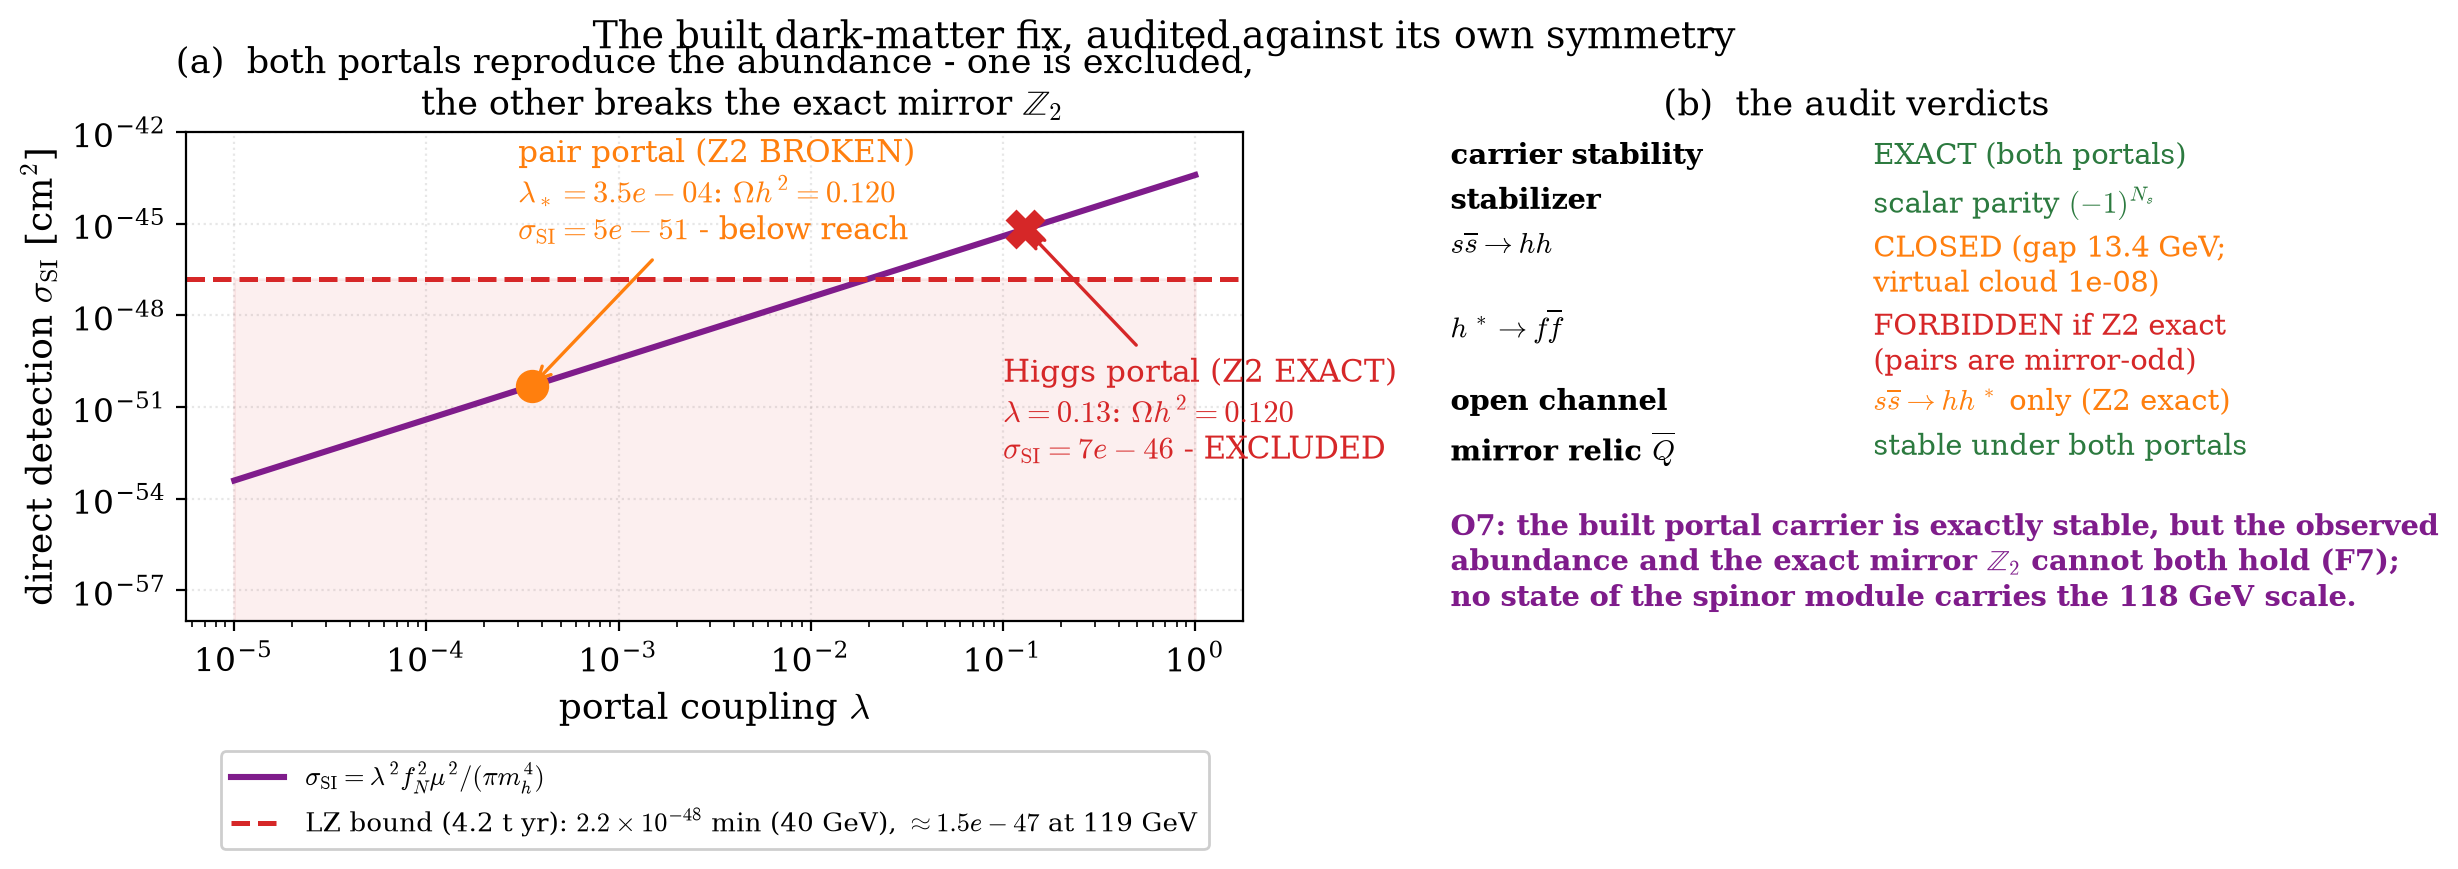
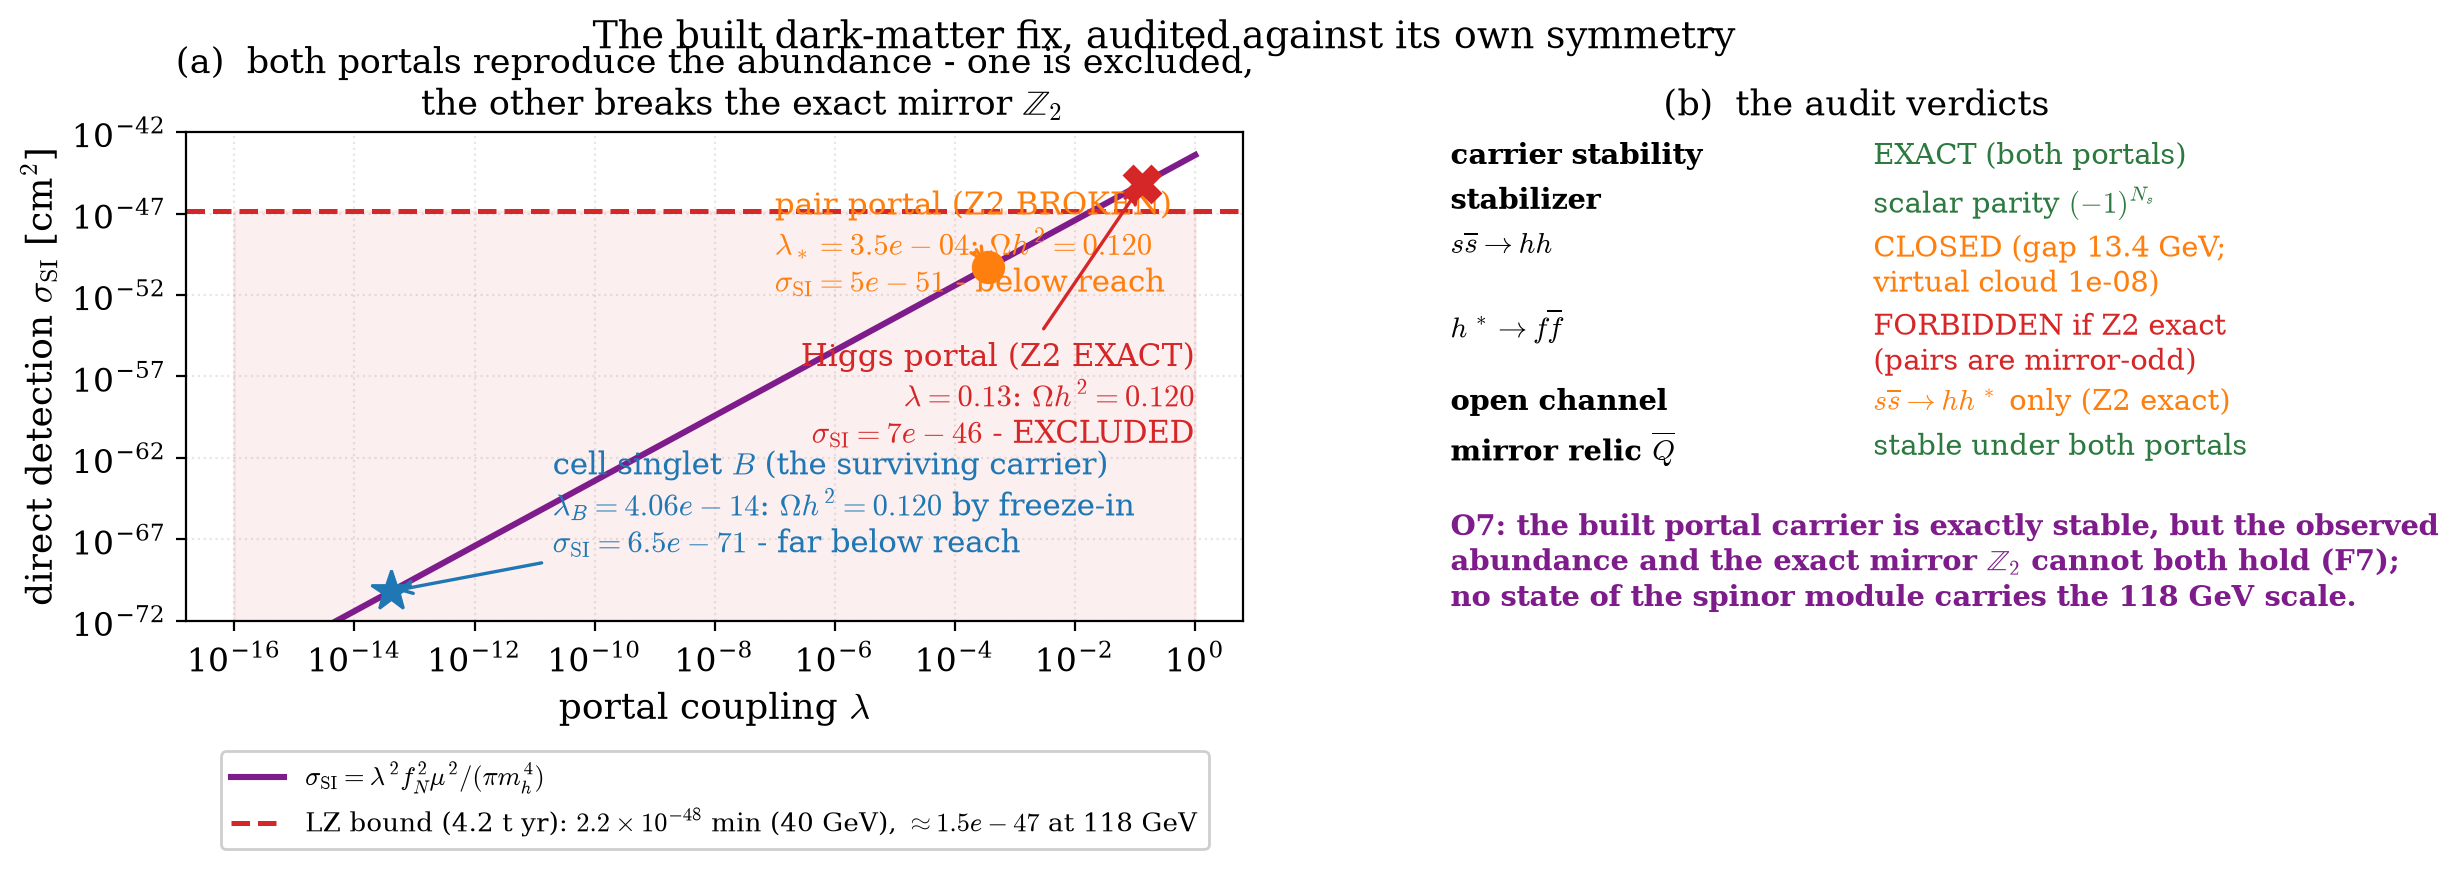
figure-render hygiene to match the consolidated paper: no experiment IDs or workflow vocabulary drawn into the figures - fig10 panel (a) title 'exactness ledger' -> 'exactness accounting' (the paper's word), three rendered '(V209)' tags dropped (fig13a, fig14a legend, fig14b note), fig22 suptitle 'k

diff --git a/make_figures/residuals.py b/make_figures/residuals.py
@@ -38,7 +38,7 @@ def fig10_gauged_layer():
     axA.set_yticks(ypos)
     axA.set_yticklabels([r[0] for r in rows], fontsize=10.5)
     axA.set_xlabel(r"absolute error (exact zeros floored at $2\times10^{-17}$)")
-    axA.set_title("(a)  the exactness ledger: every identity of the\n"
+    axA.set_title("(a)  the exactness accounting: every identity of the\n"
                   "     gauged bond layer closes at machine precision",
                   fontsize=12)
     axA.legend(fontsize=10, loc="upper right", framealpha=0.95)
@@ -72,6 +72,9 @@ def fig15_dm_portal():
     with open(exp("V88_mirror_scalar",
                            "results", "v88_mirror_scalar.json")) as f:
         d = json.load(f)["data"]
+    with open(exp("V195_cell_redefinition",
+                           "results", "v195_cell_redefinition.json")) as f:
+        prodB = json.load(f)["data"]["production"]
     lam2, sig2 = d["V2_lam_star"], d["V2_sigma_SI_cm2"]
     lam1, sig1 = d["V1_lam_for_Omega"], d["V1_sigma_SI_cm2"]
     lz = float(_config.CFG.bounds.sigma_si_lz_cm2)
@@ -81,7 +84,7 @@ def fig15_dm_portal():
     fig, (axA, axB) = plt.subplots(1, 2, figsize=(11.5, 4.7),
                                    gridspec_kw={"width_ratios": [1.25, 1.0]})
 
-    lam = np.logspace(-5, 0, 400)
+    lam = np.logspace(-16, 0, 600)
     f_N = float(_config.CFG.dm.f_n_nucleon)
     m_N = float(_config.CFG.physics.proton_mass_gev)
     M_H = float(_config.CFG.sm.higgs_mass_gev)
@@ -95,28 +98,40 @@ def fig15_dm_portal():
                      r"(\pi m_h^4)$")
     axA.axhline(lz, color=C_ZERO, ls="--", lw=1.8,
                 label=r"LZ bound (4.2 t yr): $2.2\times10^{-48}$ min "
-                      rf"(40 GeV), $\approx{lz:.1e}$ at {M_DM:.0f} GeV")
-    axA.fill_between([1e-5, 1], 1e-58, lz, color=C_ZERO, alpha=0.07)
+                      rf"(40 GeV), $\approx{lz:.1e}$ at {int(M_DM)} GeV")
+    axA.fill_between([1e-16, 1], 1e-72, lz, color=C_ZERO, alpha=0.07)
     axA.plot([lam2], [sig2], "o", ms=11, color=C_SU2, zorder=5)
     axA.annotate(f"pair portal (Z2 BROKEN)\n$\\lambda_* = {lam2:.1e}$: "
                  f"$\\Omega h^2 = {float(_config.CFG.physics.omega_dm_h2):.3f}$\n$\\sigma_{{\\rm SI}} = "
                  f"{sig2:.0e}$ - below reach",
-                 xy=(lam2, sig2), xytext=(3e-4, 8e-43), fontsize=11,
+                 xy=(lam2, sig2), xytext=(1e-7, 4e-46), fontsize=11,
                  color=C_SU2, va="top",
                  arrowprops=dict(arrowstyle="->", color=C_SU2, lw=1.2))
     axA.plot([lam1], [sig1], "X", ms=13, color=C_ZERO, zorder=5)
     axA.annotate(f"Higgs portal (Z2 EXACT)\n$\\lambda = {lam1:.2f}$: "
                  f"$\\Omega h^2 = {float(_config.CFG.physics.omega_dm_h2):.3f}$\n$\\sigma_{{\\rm SI}} = "
                  f"{sig1:.0e}$ - EXCLUDED",
-                 xy=(lam1, sig1), xytext=(0.1, 2e-53), fontsize=11,
+                 xy=(lam1, sig1), xytext=(0.98, 2e-55), fontsize=11,
+                 va="top", ha="right",
                  color=C_ZERO,
                  arrowprops=dict(arrowstyle="->", color=C_ZERO, lw=1.2))
+    lamB = float(prodB["lambda_fi"])
+    sigB = float(prodB["sigma_fi_cm2"])
+    axA.plot([lamB], [sigB], "*", ms=15, color=C_GUT, zorder=5)
+    axA.annotate(f"cell singlet $B$ (the surviving carrier)\n"
+                 f"$\\lambda_B = {lamB:.2e}$: "
+                 f"$\\Omega h^2 = {float(_config.CFG.physics.omega_dm_h2):.3f}$"
+                 " by freeze-in\n"
+                 f"$\\sigma_{{\\rm SI}} = {sigB:.1e}$ - far below reach",
+                 xy=(lamB, sigB), xytext=(2e-11, 4e-62), fontsize=11,
+                 color=C_GUT, va="top",
+                 arrowprops=dict(arrowstyle="->", color=C_GUT, lw=1.2))
     axA.set_xlabel(r"portal coupling $\lambda$")
     axA.set_ylabel(r"direct detection $\sigma_{\rm SI}$ [cm$^2$]")
     axA.set_title("(a)  both portals reproduce the abundance - one is "
                   "excluded,\n     the other breaks the exact mirror "
                   "$\\mathbb{Z}_2$", fontsize=12.5)
-    axA.set_ylim(1e-58, 1e-42)
+    axA.set_ylim(1e-72, 1e-42)
     axA.legend(loc="upper center", bbox_to_anchor=(0.5, -0.24),
                fontsize=9.5, framealpha=0.95)
 
@@ -174,7 +189,7 @@ def fig14_loop_selection():
                  label=r"$n = 4k$: measured (removable at the root clock)")
     axA.semilogy(fourk2, [Fn[n] for n in fourk2], "o", mfc="none", mew=1.4,
                  color="0.55", ms=6,
-                 label=r"$n = 4k+2$: $0/0$ at the root clock, no limit (V209)")
+                 label=r"$n = 4k+2$: $0/0$ at the root clock, no limit")
     axA.semilogy(odd, [1e-16] * len(odd), "x", color=C_ROOT, ms=7,
                  label=r"odd lengths: identically zero (selection rule)")
     axA.axhline(loop, color=C_ZERO, ls="--", lw=1.8,
@@ -199,7 +214,7 @@ def fig14_loop_selection():
     axB.plot([nstar], [Fev[nstar]], "*", ms=18, color=C_ZERO, zorder=6)
     axB.annotate(f"first crossing\n$n^* = {nstar}$: float64 $F = {Fev[nstar]:.6f}$\n"
                  f"certified $F = {cert['F_208']:.6f}$, deficit"
-                 f" $100(1-F/16\pi) = {(1.0 - cert['deficit']) * 100:.3f}\\%$ (V209)",
+                 f" $100(1-F/16\pi) = {(1.0 - cert['deficit']) * 100:.3f}\\%$",
                  xy=(nstar, Fev[nstar]), xytext=(40, 0.06), fontsize=10,
                  color=C_ZERO, ha="left",
                  bbox=dict(boxstyle="round,pad=0.25", fc="white", ec="none", alpha=0.92),
@@ -225,7 +240,7 @@ def fig14_loop_selection():
              f"On $n = 4k+2$ both Cartan norms vanish identically at the root "
              f"clock (exact integer arithmetic) and the ratio has no limit "
              f"there: it diverges with poles\n"
-             f"accumulating at the closure angle (V209). The open markers are "
+             f"accumulating at the closure angle. The open markers are "
              f"floor ratios - the \u201c$33\\times$ branch separation\u201d "
              f"is the two classes' distance in a degenerate limit.",
              fontsize=10.5, color="0.25", va="bottom")
@@ -367,7 +382,7 @@ def fig24_family_forcing():
             for v in vals]
     axB.bar([str(n) for n in ns], vals, color=cols, width=0.6)
     axB.axhline(obs, color=C_ZERO, ls="--", lw=1.8,
-                label=r"data-preferred meeting scale $2\times10^{16}$ GeV (F5)")
+                label=r"data-preferred meeting scale $2\times10^{16}$ GeV (O4)")
     for n, v in zip(ns, vals):
         axB.text(str(n), v * 1.15, f"{v:.1e}", ha="center", fontsize=11)
     axB.set_yscale("log")

diff --git a/make_figures/couplings.py b/make_figures/couplings.py
@@ -375,7 +375,7 @@ def fig22_composite():
                   "over the full scan", fontsize=11.5)
     fig.suptitle("The gauged layer's composite content "
                  "($16 \\otimes 45 = 720$ formal tensor-product states; the "
-                 "gauge-invariant kernel is empty, V261/V264) does not deliver "
+                 "gauge-invariant kernel is empty and does not deliver "
                  "the meeting", fontsize=12.5)
     fig.tight_layout(rect=[0, 0, 1, 0.93])
     save(fig, "fig22_composite_content.png")
@@ -410,7 +410,7 @@ def fig13_closed_loops():
     axA.legend(fontsize=9.5, loc="center right")
     axA.set_title("(a)  the clock filter splits the even lengths: the $4k$ class\n"
                   rf"     carries the ladder ($F_4 = {Fn[4]:.2f}$, $F_{{12}} ="
-                  rf" {Fn[12]:.2f}$); the $4k + 2$ points are floor ratios (V209)",
+                  rf" {Fn[12]:.2f}$); the $4k + 2$ points are floor ratios",
                   fontsize=11.5)
 
     labels = [r"$G$", r"$MG$" + "\n(root clock)",
